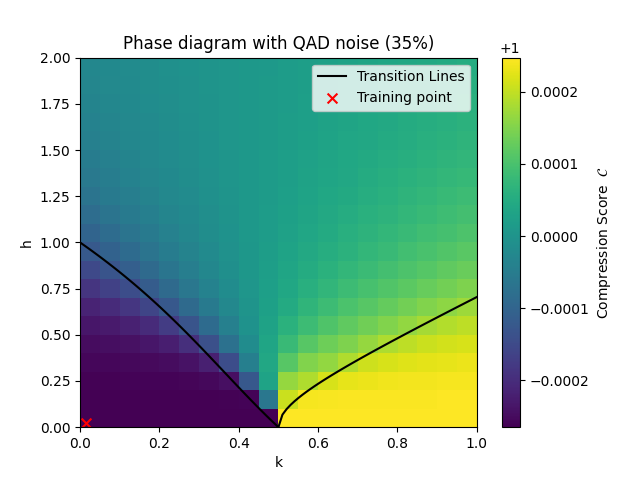
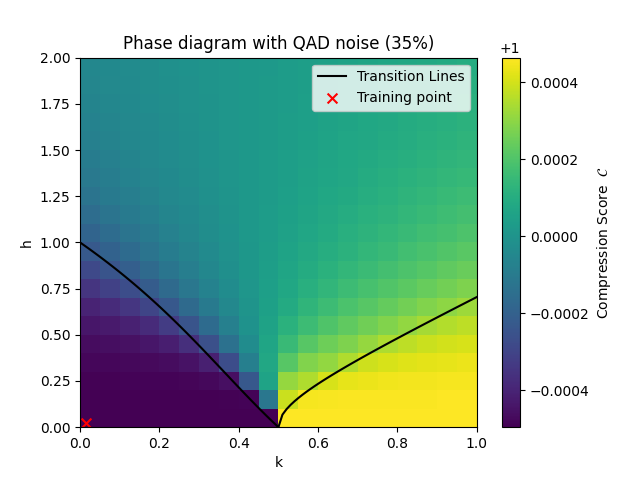
fixed error

diff --git a/src/unsup_noisy.py b/src/unsup_noisy.py
@@ -186,7 +186,9 @@ def anomaly_noisy(n_qubit, params):
         wires_to_rot = np.arange(n_qubit) if shift < depth - 1 else trash
         for wire in wires_to_rot:
             qml.RY(params[index], wires=int(wire))
-
+            if answer == "y":
+                qml.DepolarizingChannel(noise_strength, wires=int(wire))
+            index += 1
     return index, list(trash)
 
 
@@ -266,7 +268,10 @@ plt.grid()
 plt.show()
 
 # Evaluate the compression score for each state in the phase diagram
-compressions = vectorized_anomalynode_noisy(trained_anomaly_params, psis.reshape(-1, 2**num_qubits))
+if answer == "y":
+    compressions = vectorized_anomalynode_noisy(trained_anomaly_params, psis.reshape(-1, 2**num_qubits))
+elif answer == "n":
+    compressions = vectorized_anomaly_circuit(trained_anomaly_params, psis.reshape(-1, 2 ** num_qubits))
 compressions = jnp.mean(1 - jnp.array(compressions), axis = 0)
 
 im = plt.imshow(compressions.reshape(side, side), aspect="auto", origin="lower", extent=[0, 1, 0, 2])
